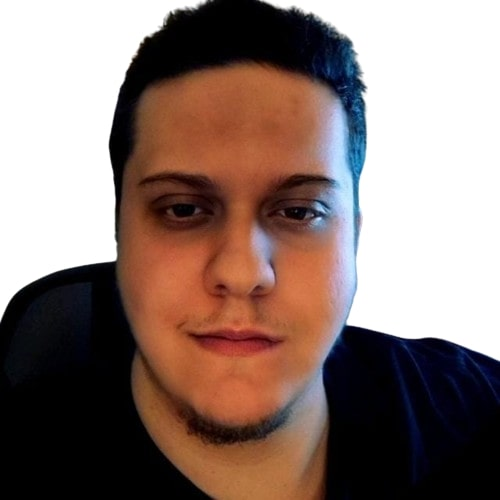
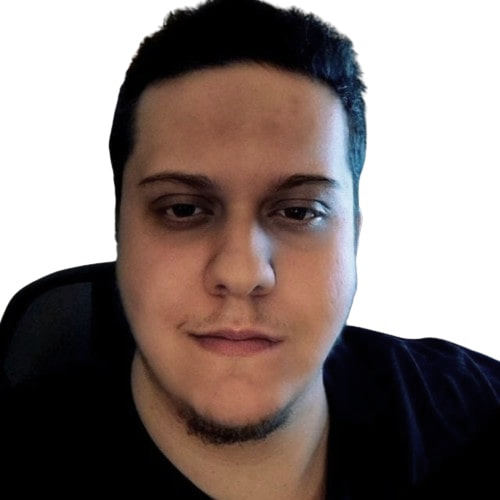
jovan slika

diff --git a/src/app/o-nama/o-nama.component.css b/src/app/o-nama/o-nama.component.css
@@ -1,6 +1,6 @@
 @keyframes imageShow {
-    from {filter: grayscale(100%);}
-    to {filter: grayscale(0%); scale: 1.03;}
+    from {filter: grayscale(0%);}
+    to {filter: grayscale(70%); scale: 1.03;}
 }
 
 h1 {
@@ -18,7 +18,7 @@ h1 {
 }
 
 img {
-    filter: grayscale(100%);
+    filter: grayscale(0%);
     border-radius: 50%;
 }
 
